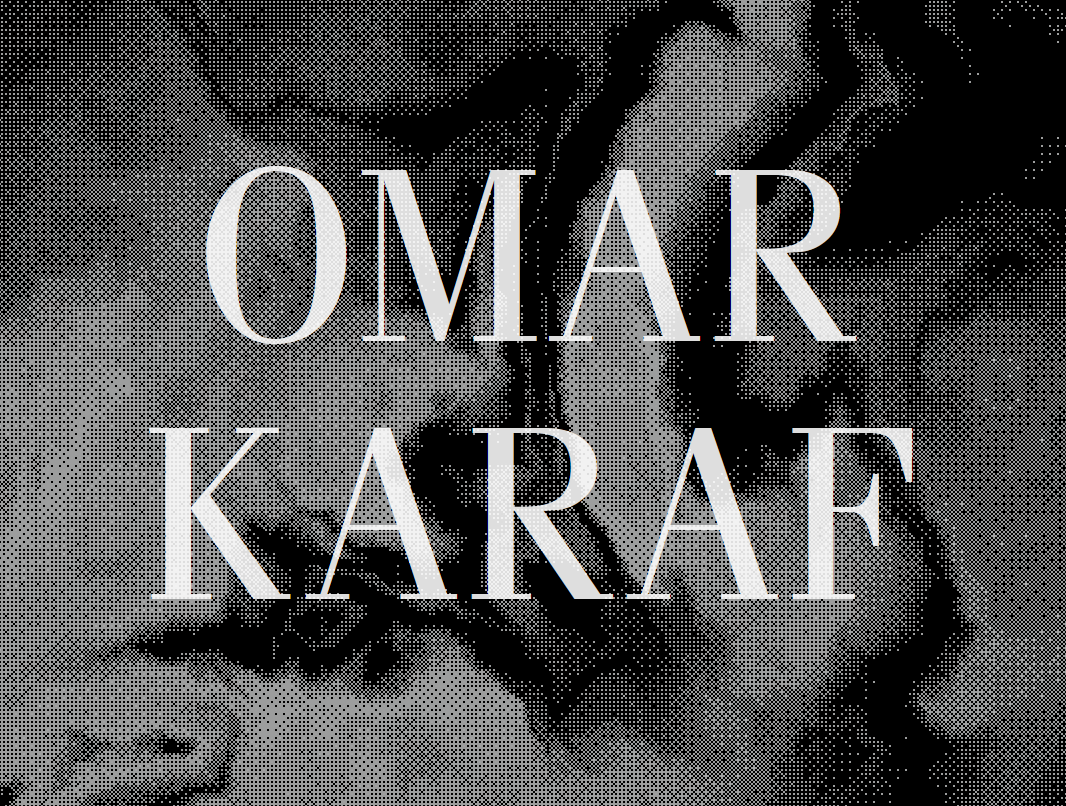
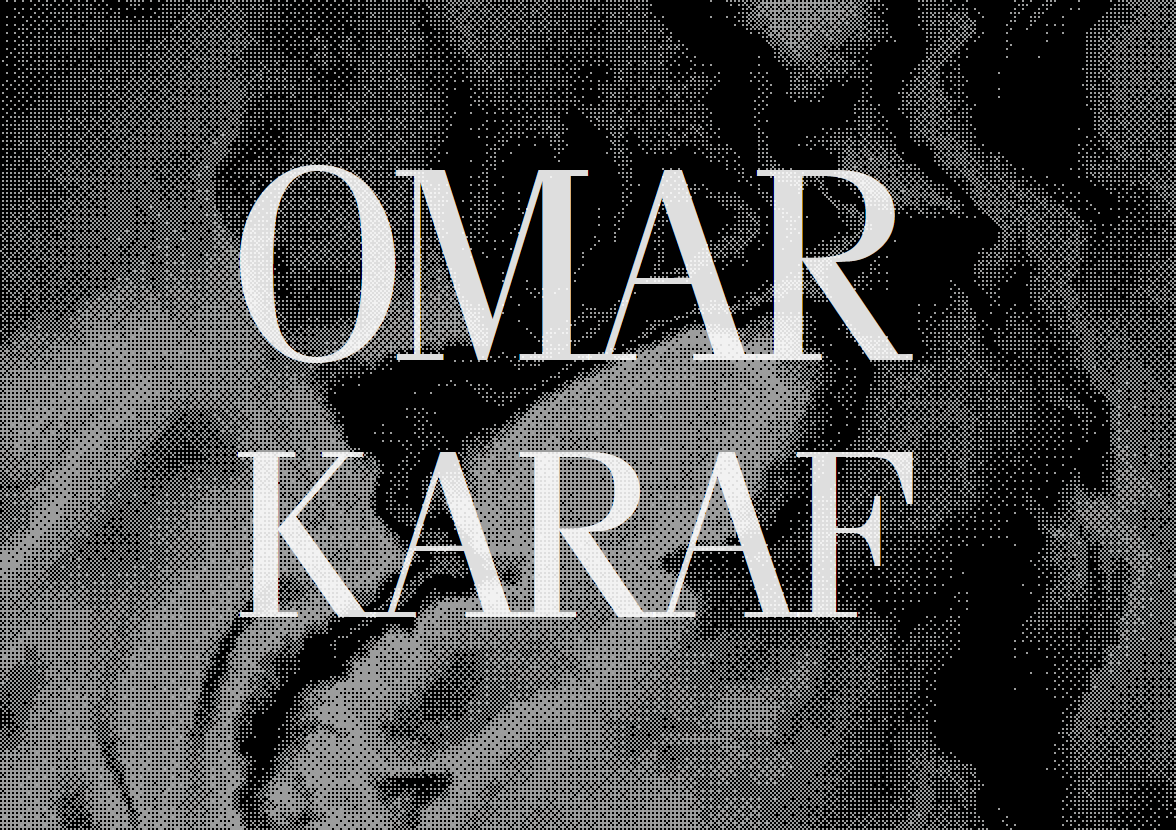
some fixes

diff --git a/src/css/main.css b/src/css/main.css
@@ -126,9 +126,12 @@ body {
     z-index: 100;
     pointer-events: none;
 
-    font-size: 15rem;
+    font-size: 13rem;
 
     color: rgba(255, 255, 255, 0.87);
+
+    font-family: Fenice Regular;
+    letter-spacing: -13px;
 
 }
 /* --------------- End of Hero ---------------- */

diff --git a/index.html b/index.html
@@ -36,7 +36,7 @@
 
     <!-- Hero -->
     <section class="hero">
-      <h1 class="hero_text fenice">OMAR<br>KARAF</h1>
+      <h1 class="hero_text fenice">OMAR KARAF</h1>
       <div id="background"></div>
     </section>
     
